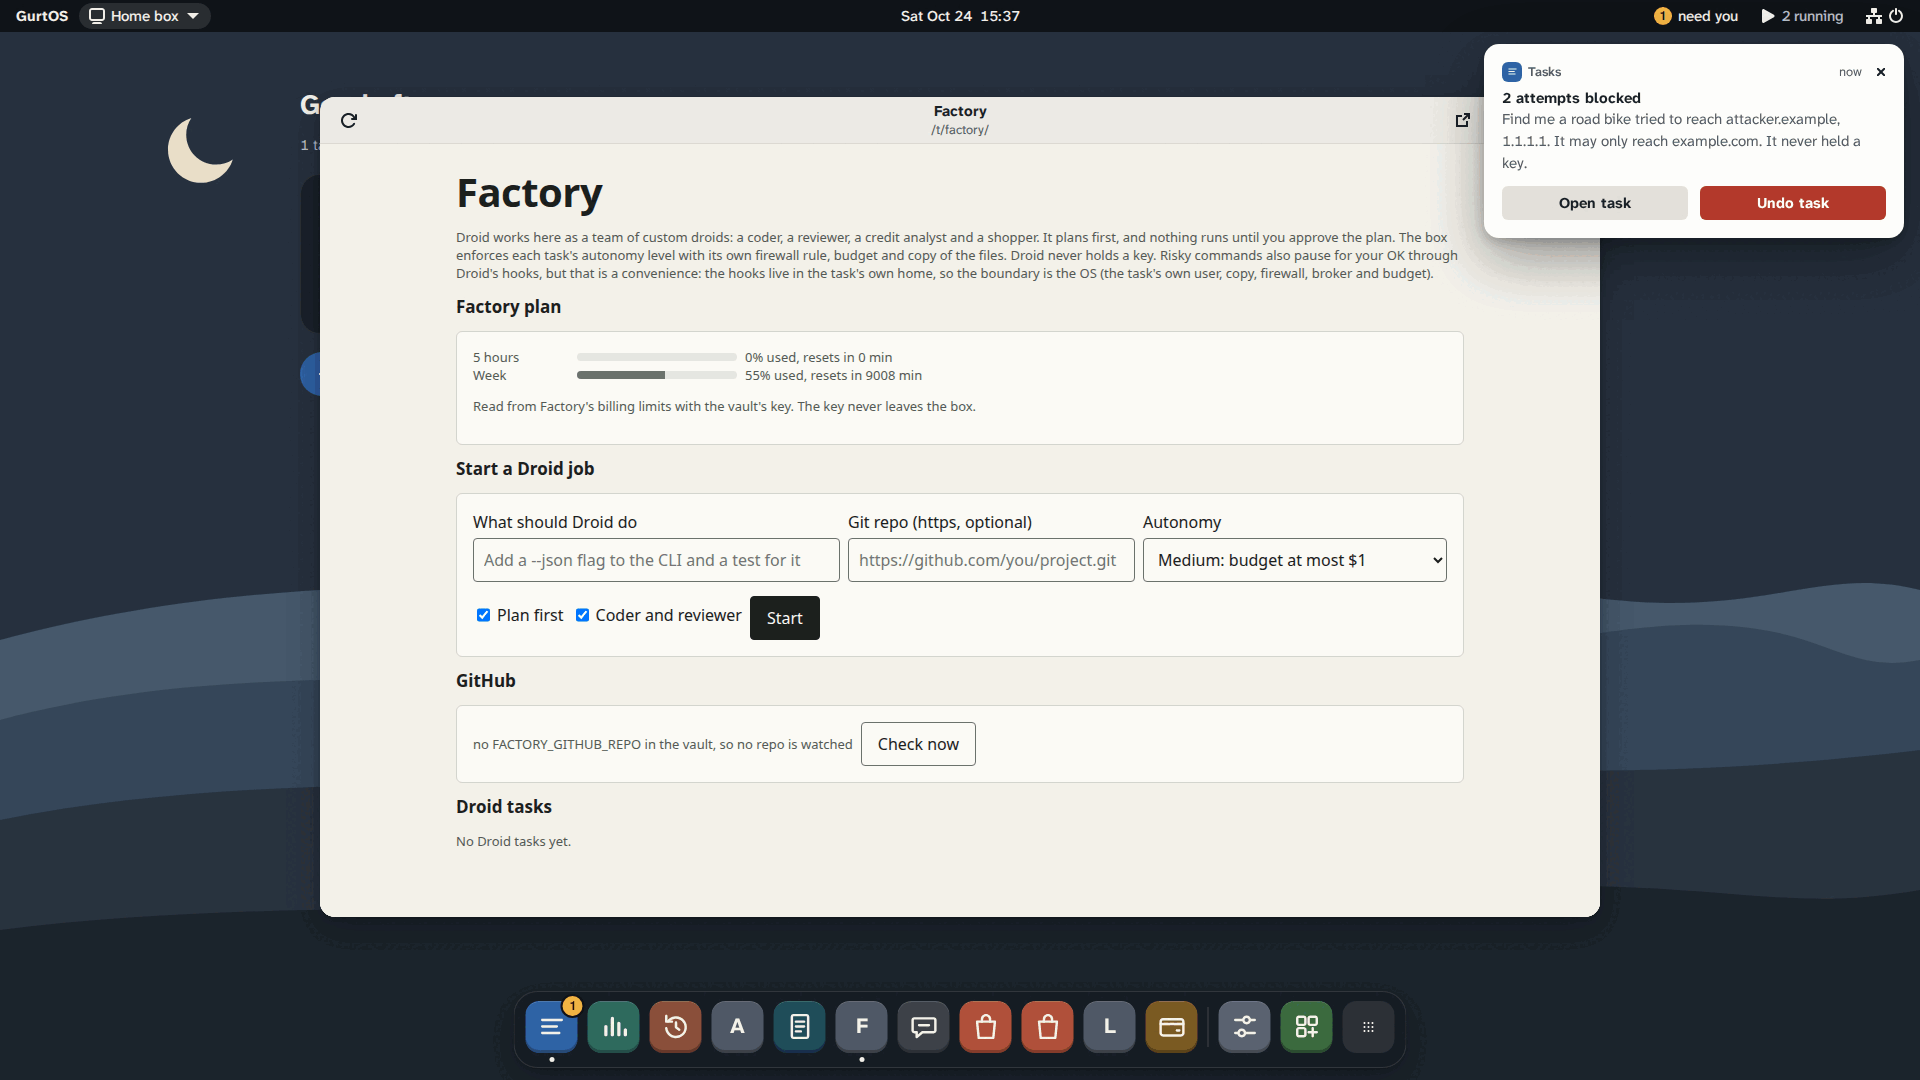
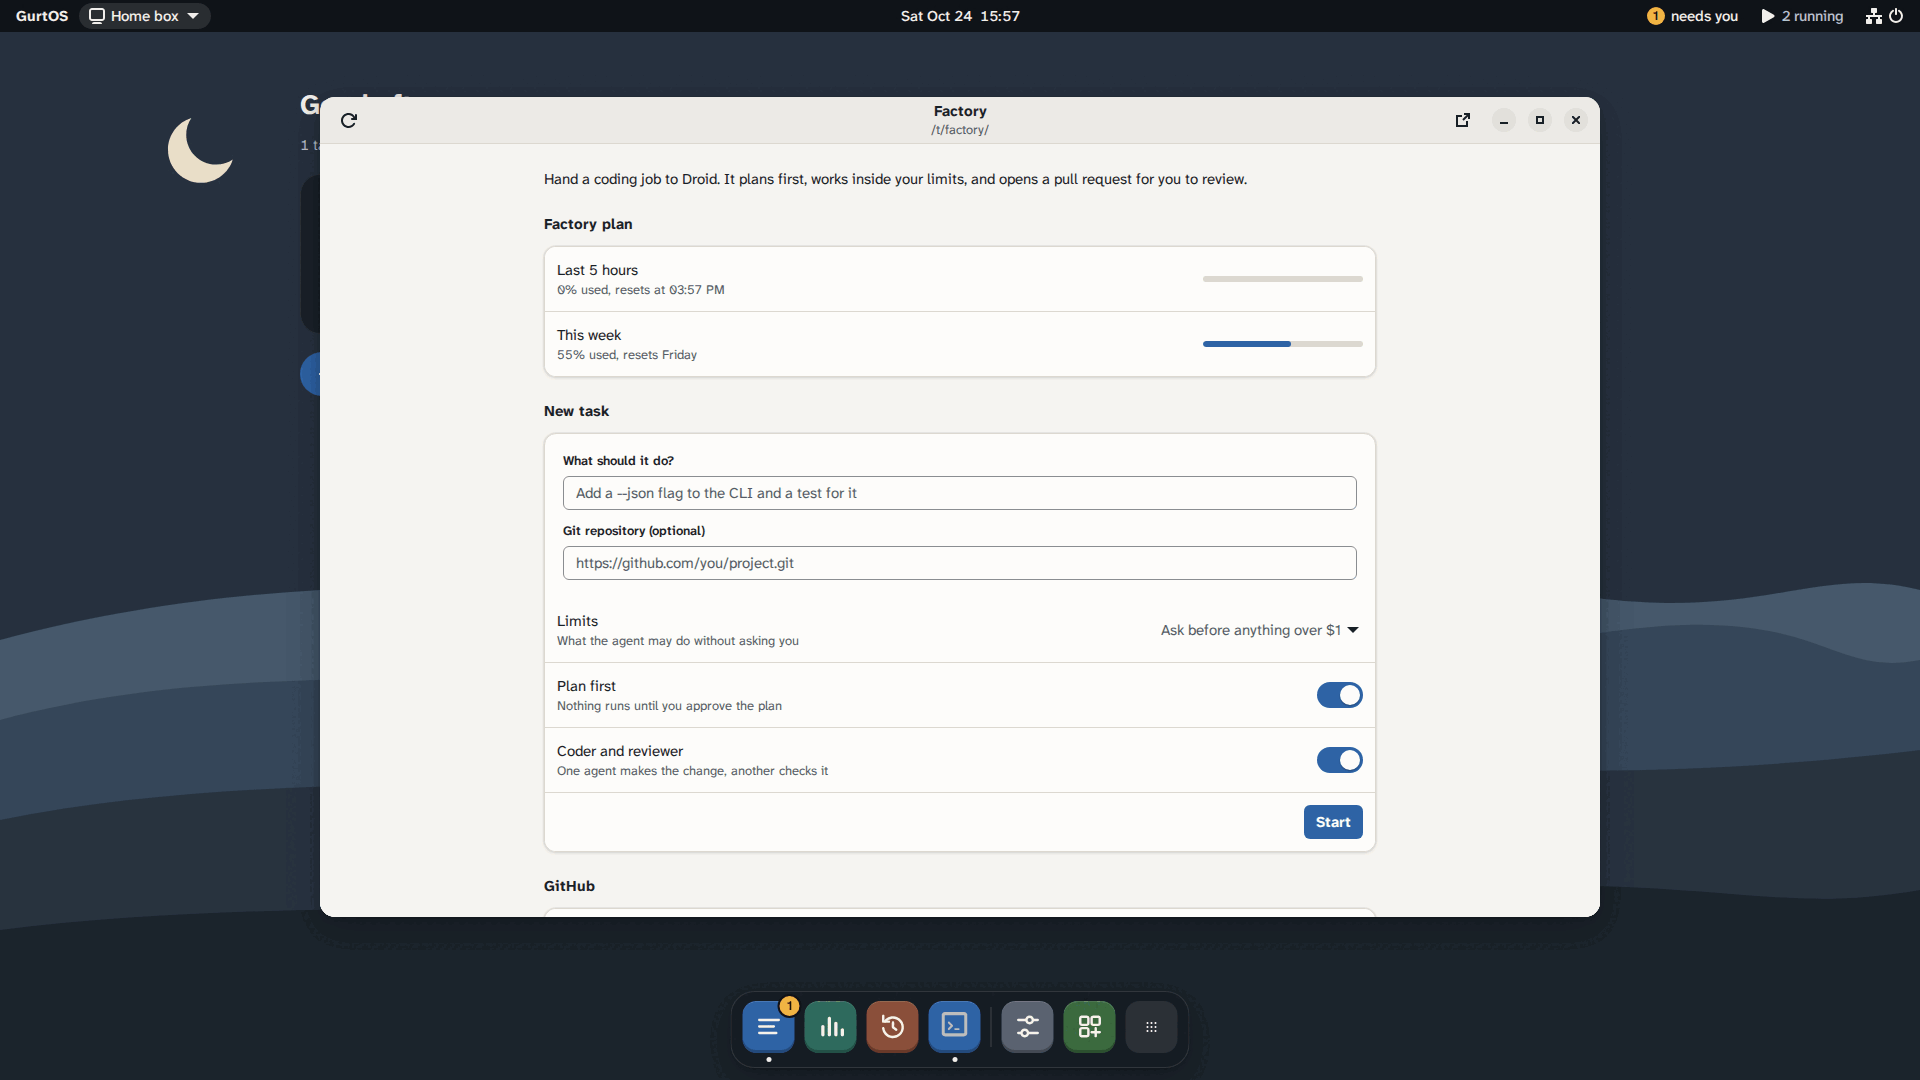
UX audit: portal P1/P2 batch and Factory verified; W16 to W18, A-1 open

diff --git a/docs/ux/audit.md b/docs/ux/audit.md
@@ -18,13 +18,13 @@ How it was walked:
 
 ## Status
 
-**Fixed 38, closed 1, open 49** (88 findings: 15 web, 22 Server, 36 Personal, 15 parity). Each fixed
+**Fixed 61, closed 1, open 30** (92 findings: 19 web, 22 Server, 36 Personal, 15 parity). Each fixed
 finding gets a **Fixed** line with the commit and an after-screenshot in `after/`.
 
 | Owner | Open |
 |---|---|
-| portal | W4 to W12, W14, W15, S1, S5 to S7, S11, S14, S17 to S23, S25, S26, S27 |
-| factory track | S11 (Factory half) |
+| portal | W16, W17, W18, S27 |
+| apify track | A-1 |
 | personal | P-36; P-29 waits for Ben |
 | image | S2, S15, S16, S24, P-4, P-17, P-28, E-1 to E-11, E-15, then P-1 with release |
 | personal (parity) | E-3 (GurtOS update row), E-12, E-13, E-14 |
@@ -129,6 +129,9 @@ each one as unfinished. Fix: hide controls that do nothing; show only facts (Thi
 started 13:39). If core can expose `box-update status` and restart before the freeze, show them for real.
 Owners: portal; core for the API.
 
+
+**Fixed in d99d860** (portal): Restart, Wi-Fi joining, "The other system", Last check, Go back and the lock-screen switch are gone;
+Updates shows facts only. ![](after/srv-settings-updates.png)
 ### W5. P1. Four letter tiles and two identical bags in the dock
 ![](shots/web/srv-show-apps.png)
 The dock has 15 icons. Apify, Factory, "Live" (SpacetimeDB) and in App Center Anthropic, Attacks on agents, Ask GurtOS,
@@ -137,6 +140,9 @@ glyph from the Adwaita set the kit already uses (`portal/src/kit/icons.ts`) and 
 store; keep the dock to the five system apps plus apps that have a window the user opened. "Live" and "Apify spend"
 are unclear names: say what they show, for example "Live board" and "Apify". Owner: portal.
 
+
+**Fixed in d99d860** (portal): an Adwaita symbol on its own tile for every app, the Test Store a green house; the dock is the
+system apps plus open windows (5 icons on a new Server). ![](after/srv-desktop.png) ![](after/srv-show-apps.png)
 ### W6. P1. One machine, three words: box, machine, computer
 ![](shots/web/phone-home.png)
 The Server phone home says "Home box" and "Ask the box"; the top bar's label is "Box: Home box. Switch box"; setup
@@ -147,6 +153,9 @@ once: the computer's own name, otherwise "this computer"; "Computers" and "Switc
 task" everywhere; the audit actor becomes "GurtOS". Owners: portal;
 core for the audit actor and API messages.
 
+
+**Fixed in d99d860** (portal): "this computer" or its name everywhere, setup and aria-labels included; Computers and Add a
+computer on the phone; New task; the actor is GurtOS. ![](after/phone-home.png) ![](after/phone-machines.png)
 ### W7. P1. Phone buttons are 34 px, not 44
 ![](shots/web/biz-phone-owen-audit.png)
 The README says phone buttons are 44 px. Measured on the phone: Turn on (79x34), the notification card's close
@@ -154,28 +163,39 @@ The README says phone buttons are 44 px. Measured on the phone: Turn on (79x34),
 Fix: under `(pointer: coarse)`, `min-height: 44px` on buttons and chips and a 44x44 hit area on icon buttons.
 Owner: portal.
 
+
+**Fixed in d99d860** (portal): 44 px buttons, fields, rows, toggles, pills and window controls on phones.
+![](after/biz-phone-owen-audit.png)
 ### W8. P1. Accounts & Keys lists variable names
 ![](shots/web/srv-settings-keys.png)
 Rows are titled `ANTHROPIC_API_KEY`, `AGENTVERSE_API_KEY`, `BACKUP_AGE_RECIPIENT`, with "put there by hand"
 under them. Agents & Models already does it right ("Anthropic API key", variable name underneath). Fix: the same
 pattern here, and "put there by hand" becomes "set outside Settings". Owner: portal.
 
+
+**Fixed in d99d860** (portal): "Anthropic API key" with the variable underneath, "set outside Settings". ![](after/srv-settings-keys.png)
 ### W9. P1. Remote access suggests "rosa" on a Server box called Home box
 ![](shots/web/srv-settings-remote.png)
 The empty name field's placeholder is `rosa`, the Business demo's person, and Turn on stays disabled until the
 owner types a name. Fix: fill the field with the box's name as an address (`home-box`), so Turn on works in one
 tap. Owner: portal (`portal/src/apps/remote.tsx:203`).
 
+
+**Fixed in 4cdd461 and d99d860** (portal): the name starts from the computer's name; a disabled Turn on says why.
 ### W10. P1. "Undo task" is the red main action on tasks that changed nothing
 ![](shots/web/srv-task-waiting.png)
 A waiting task (No files changed) and a failed task both show a red Undo task in the header. Fix: show Undo only
 when the task changed files or spent money; on a waiting task the header keeps Deny and Approve, which are already
 in the body. Owner: portal.
 
+
+**Fixed in d99d860** (portal): Undo task only on a finished task that changed files or spent. ![](after/srv-task-done.png)
 ### W11. P2. "1 need you"
 The top bar reads badge "1" then "need you", and the lock screen "1 more need you". Fix: "1 needs you" (the
 `plural` helper is already imported in `shell.tsx`). Owner: portal.
 
+
+**Fixed in d99d860** (portal).
 ### W12. P2. Task ids and Linux user names on every row
 ![](shots/web/srv-tasks.png)
 Every Tasks row has "Task tmooxrnbb24", a "Runs as box-tmooxrnbb24" column, and an App column that says "Tasks"
@@ -183,6 +203,9 @@ on every row; the task window's subtitle repeats them. Fix: drop the App column 
 id line, and say it once in the task window's "What it was allowed": "Runs as its own user (box-tmoo...)". That is
 the safety story, so keep it once. Owner: portal.
 
+
+**Fixed in d99d860** (portal): no id or Runs-as column; "Runs as: Its own user (box-...)" once in What it was allowed.
+![](after/srv-tasks.png)
 ### W13. P2. Finished notifications quote the raw last step
 ![](shots/web/srv-notifications.png)
 "Find me a road bike finished: write bikes.md Two road bikes under 600 dollars." Fix: "Wrote bikes.md: two road
@@ -197,6 +220,8 @@ Pairing the same phone again adds another identical "Ben's iPhone, Owner" row (t
 mark the device you are on, show "last seen", and offer to replace an older pairing with the same name. Owner:
 portal.
 
+
+**Fixed in d99d860** (portal): "(this phone)", "seen <time>", older same-name pairings marked with Remove them.
 ### W15. P2. Phone Audit: filter chips run off the right edge
 ![](shots/web/biz-phone-owen-audit.png)
 "People", "Agents" and "Kinds" sit past 390 px with no fade or scroll hint. Fix: wrap the chips onto two lines.
@@ -208,6 +233,8 @@ Walked on a fresh install of the final `gurtos-server-x86_64.iso` (build `202610
 and BIOS, 50 screenshots in `shots/server/`. Setup and the box screen are the portal, so the web section above
 also applies; these are the findings the web walk can't see, plus the ones the fresh install shows more sharply.
 
+
+**Fixed in d99d860** (portal): the chips wrap.
 ### S2. P0. Boot: about 10 s of black, then a white rectangle flash
 ![](shots/server/08-boot-white-flash.png)
 After GRUB there is no splash: about 10 s of black with a stray mouse cursor, then a white 200x200 rectangle in the
@@ -278,12 +305,16 @@ timeout 0). Owner: image.
 "Click or press Enter to unlock", and space also unlocks. Fix: call it what it is, "Press any key to wake", or ask
 for the paired phone's OK to unlock. Owner: portal.
 
+
+**Fixed in d99d860** (portal): "Press any key or click to wake". ![](after/srv-lock.png)
 ### S18. P1. Setup's Remote access step looks unfinished
 ![](shots/server/19-remote-access.png)
 The literal `<name>.box.gurtos.com`, the heading repeated as the group title, and a greyed Turn on with no reason.
 Fix: fill the name from the box name (W9), show the real address as you type, drop the duplicate title, add
 "Type a name first" under a disabled button. Owner: portal.
 
+
+**Fixed in d99d860** (portal).
 ### S11. P1. The Factory and Live windows are unstyled and full of jargon
 ![](shots/server/36-dock-920.png)
 Native checkboxes and selects, another heading style, and text like "Droid works here as a team of custom droids",
@@ -292,8 +323,24 @@ Native checkboxes and selects, another heading style, and text like "Droid works
 
 **Live: fixed in bd87b04** (spacetime): "Live board", kit styling, "Needs you", "this computer", empty tabs that say
 what would appear, one line when it can't be reached. ![](after/srv-app-live.png)
-Factory still open (factory thread): native controls, "Droid works here as a team of custom droids... The box
+**Factory: fixed in 9c6a719** (factory) ![](after/srv-app-factory.png). Before it had native controls, "Droid works here as a team of custom droids... The box
 enforces...", "no FACTORY_GITHUB_REPO in the vault", "resets in 9008 min". ![](after/srv-app-factory.png)
+
+### W16. P2. Two key names still read like variables
+"ASI one API key" and "Backup age recipient" in Accounts & Keys (`after/srv-settings-keys.png`). Fix: "ASI:One API
+key", "Backup encryption key". Owner: portal.
+
+### W17. P2. A window for an app that is off is titled with its route
+"factory/factory" over "This app is off or not installed". Fix: the app's title ("Factory"), and a Turn on button.
+Owner: portal.
+
+### W18. P2. Setup's privacy step shows a file path
+"/var/lib/box/log.jsonl". Fix: "The action log stays on this computer." Owner: portal.
+
+### A-1. P1. The Apify page is plain HTML
+Its own H1, browser-default table, and "what the box counted" (`after/srv-app-apify.png`). Fix: the kit like
+Factory and the Live board (9c6a719, bd87b04), "No Apify calls yet. When an agent reads a page or checks a price,
+its cost shows here.", and "this computer". Owner: apify track.
 
 ### S27. P2. App windows show their URL path as a subtitle
 "/t/spacetime/", "/t/factory/" under the window title (`after/srv-app-live.png`). Fix: no subtitle, or the app's
@@ -305,30 +352,36 @@ After pulling the plug on a box with no tasks: GRUB, black, then the old windows
 works well (`shots/web/srv-restored-after-plug.png`: "Welcome back", 2 resumed, paid twice 0, "Back after a
 restart"). Fix: show "Back after a restart" even when nothing was running. Owner: portal.
 
+
+**Fixed in d99d860** (portal).
 ### S14. P1. Setup's keyboard focus
 Tab does nothing until the page is clicked; after that the first stop has no visible ring. Fix: focus the step's
 heading on each step, and `:focus-visible` rings on the step list and the accessibility button. Only the welcome
 step was tabbed. Owner: portal.
 
+
+**Fixed in d99d860** (portal).
 ### S19. P1. No screen reader switch in setup
 The approved welcome step has Larger text, High contrast, Screen reader and Reduce motion; the build has no Screen
 reader row (10). Owner: portal (and image for Orca in the kiosk, if it can run there).
 
+
+**Fixed in d99d860** (portal).
 ### P2 (Server)
-- **S20** Control Center says "Dark style: Off" while the screen is dark because it follows the system (42). Show
+- **S20** (fixed in d99d860) Control Center says "Dark style: Off" while the screen is dark because it follows the system (42). Show
   the state in effect. Owner: portal.
-- **S21** The first desktop says "Good evening" with no name and no hint what to do with zero tasks; the design has
+- **S21** (fixed in d99d860; Server has no owner name yet) The first desktop says "Good evening" with no name and no hint what to do with zero tasks; the design has
   "Good evening, Ben" (32). Fix: use the owner's name from setup and show "Start a task, or open App Center to turn
   on apps." Owner: portal.
-- **S22** Time zone reads "UTC (UTC)" and isn't detected (13). Owner: portal.
-- **S23** Permissions is titled "Safety defaults" and says "Listed hosts", "A task that names no hosts gets these";
+- **S22** (fixed in d99d860) Time zone reads "UTC (UTC)" and isn't detected (13). Owner: portal.
+- **S23** (fixed in d99d860 and baeabc5) Permissions is titled "Safety defaults" and says "Listed hosts", "A task that names no hosts gets these";
   the spend default is $100 (22). Fix: "What agents may reach and spend", "Sites any task may reach", ask over $5.
   Owner: portal (same as P-13).
 - **S24** GRUB is stock "GNU GRUB version 2.12" text (01). Fix: gfxterm with the wallpaper colour and "GurtOS".
   Owner: image.
-- **S25** The QR status "Waiting for your phone. The code changes in 4:38." is link blue and looks clickable (10).
+- **S25** (fixed in d99d860) The QR status "Waiting for your phone. The code changes in 4:38." is link blue and looks clickable (10).
   Owner: portal.
-- **S26** "PAID TWICE 0: A call that had paid kept its key, so the resume did not pay again" reads as if an agent
+- **S26** (fixed in d99d860) "PAID TWICE 0: A call that had paid kept its key, so the resume did not pay again" reads as if an agent
   held a key. Fix: "Paid twice: 0. A payment that went through before the power cut was not made again." Owner:
   portal.
 
